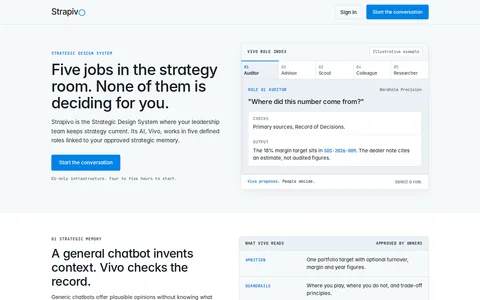
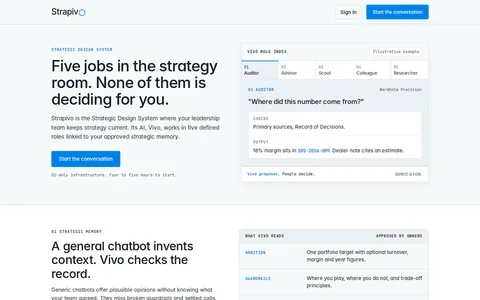
Update landing concept 59-five-roles

diff --git a/landings/59-five-roles/index.html b/landings/59-five-roles/index.html
@@ -1323,7 +1323,7 @@
 
           <div class="role-panel is-active" role="tabpanel" id="panel-auditor" aria-labelledby="tab-auditor">
             <div class="panel-meta">
-              <span class="panel-role-tag">Role 01 Auditor</span>
+              <span class="panel-role-tag">01 Auditor</span>
               <span class="panel-scope">Nordholm Precision</span>
             </div>
             <p class="panel-question">"Where did this number come from?"</p>
@@ -1334,14 +1334,14 @@
               </div>
               <div class="dossier-row">
                 <span class="dossier-label">Output</span>
-                <p class="dossier-text">The 18% margin target sits in <span class="ref-code">SDS-2026-009</span>. The dealer note cites an estimate, not audited figures.</p>
+                <p class="dossier-text">18% margin sits in <span class="ref-code">SDS-2026-009</span>. Dealer note cites an estimate.</p>
               </div>
             </div>
           </div>
 
           <div class="role-panel" role="tabpanel" id="panel-advisor" aria-labelledby="tab-advisor">
             <div class="panel-meta">
-              <span class="panel-role-tag">Role 02 Advisor</span>
+              <span class="panel-role-tag">02 Advisor</span>
               <span class="panel-scope">Nordholm Precision</span>
             </div>
             <p class="panel-question">"Does this fit our principles?"</p>
@@ -1352,14 +1352,14 @@
               </div>
               <div class="dossier-row">
                 <span class="dossier-label">Output</span>
-                <p class="dossier-text">Direct retail conflicts with <span class="ref-code">Guardrail 03</span> on distributors. Narrow the scope or reopen the guardrail.</p>
+                <p class="dossier-text">Direct retail breaks <span class="ref-code">Guardrail 03</span> on distributors. Narrow scope or reopen it.</p>
               </div>
             </div>
           </div>
 
           <div class="role-panel" role="tabpanel" id="panel-scout" aria-labelledby="tab-scout">
             <div class="panel-meta">
-              <span class="panel-role-tag">Role 03 Scout</span>
+              <span class="panel-role-tag">03 Scout</span>
               <span class="panel-scope">Nordholm Precision</span>
             </div>
             <p class="panel-question">"What moved against the plan?"</p>
@@ -1370,14 +1370,14 @@
               </div>
               <div class="dossier-row">
                 <span class="dossier-label">Output</span>
-                <p class="dossier-text">Two primary supplier filings show a 14-week delay. Vivo proposed a ghost move into the top right.</p>
+                <p class="dossier-text">Two supplier filings show a 14-week delay. Vivo proposed a top-right ghost move.</p>
               </div>
             </div>
           </div>
 
           <div class="role-panel" role="tabpanel" id="panel-colleague" aria-labelledby="tab-colleague">
             <div class="panel-meta">
-              <span class="panel-role-tag">Role 04 Colleague</span>
+              <span class="panel-role-tag">04 Colleague</span>
               <span class="panel-scope">Nordholm Precision</span>
             </div>
             <p class="panel-question">"Think this through with me."</p>
@@ -1388,14 +1388,14 @@
               </div>
               <div class="dossier-row">
                 <span class="dossier-label">Output</span>
-                <p class="dossier-text">Holding the Munich launch protects cash yet pushes two activities off track. Compare Adapt against Not yet.</p>
+                <p class="dossier-text">Delaying Munich protects cash yet pushes two activities off track. Compare Adapt against Not yet.</p>
               </div>
             </div>
           </div>
 
           <div class="role-panel" role="tabpanel" id="panel-researcher" aria-labelledby="tab-researcher">
             <div class="panel-meta">
-              <span class="panel-role-tag">Role 05 Researcher</span>
+              <span class="panel-role-tag">05 Researcher</span>
               <span class="panel-scope">Nordholm Precision</span>
             </div>
             <p class="panel-question">"What evidence sits behind this shift?"</p>
@@ -1406,7 +1406,7 @@
               </div>
               <div class="dossier-row">
                 <span class="dossier-label">Output</span>
-                <p class="dossier-text">Three primary notices confirm the 2027 German threshold. Trade press missed the exemption.</p>
+                <p class="dossier-text">Three regulatory notices confirm the 2027 threshold. Trade press missed the exemption.</p>
               </div>
             </div>
           </div>
@@ -1424,8 +1424,8 @@
         <div class="body-stack">
           <p class="eyebrow">01 Strategic memory</p>
           <h2 id="generic-heading">A general chatbot invents context. Vivo checks the record.</h2>
-          <p>Generic chatbots offer plausible opinions without knowing what your leadership team agreed. They cannot spot a broken guardrail or a settled call.</p>
-          <p>Strapivo stores your strategy as structured truth. Vivo reads four approved artefacts before it answers.</p>
+          <p>Generic chatbots offer plausible opinions without knowing what your team agreed. They miss broken guardrails and settled calls.</p>
+          <p>Strapivo stores strategy as structured truth. Vivo reads four approved artefacts first.</p>
         </div>
 
         <div class="anchor-table" role="region" aria-label="Four artefacts Vivo reads before responding">
@@ -1456,9 +1456,9 @@
     <section class="section section-paper" aria-labelledby="roles-heading">
       <div class="container">
         <div class="section-head">
-          <p class="eyebrow">02 Five roles in the room</p>
+          <p class="eyebrow">02 Five roles</p>
           <h2 id="roles-heading">Five defined jobs, linked to real artefacts</h2>
-          <p class="section-lead">Teams want help, not a co-author with the pen. Each role gives Vivo one question and clear artefacts to check.</p>
+          <p class="section-lead">Teams want help, not a co-author with the pen. Each role checks named artefacts.</p>
         </div>
 
         <div class="roles-ledger">
@@ -1477,7 +1477,7 @@
               <p class="role-artefact">Primary sources, Record of Decisions</p>
             </div>
             <p class="role-question-col">"Where did this number come from?"</p>
-            <p class="role-desc">Vivo traces claims to primary evidence, activity updates or an earlier decision. It flags unverified assumptions before you commit resources.</p>
+            <p class="role-desc">Vivo traces claims to primary evidence or past decisions. It flags weak assumptions before you commit resources.</p>
           </article>
 
           <article class="ledger-row">
@@ -1489,7 +1489,7 @@
               <p class="role-artefact">Ambition, guardrails</p>
             </div>
             <p class="role-question-col">"Does this fit our principles?"</p>
-            <p class="role-desc">Vivo tests proposals against your Ambition and where you do not play. It flags drift before an exception becomes routine.</p>
+            <p class="role-desc">Vivo tests proposals against your Ambition and stated boundaries. It catches drift before exceptions turn routine.</p>
           </article>
 
           <article class="ledger-row">
@@ -1501,7 +1501,7 @@
               <p class="role-artefact">Focus areas, risk radar</p>
             </div>
             <p class="role-question-col">"What moved against the plan?"</p>
-            <p class="role-desc">Vivo tracks outside shifts against your focus areas with a one-line reason. It proposes ghost risk moves for a person to confirm or reject.</p>
+            <p class="role-desc">Vivo tracks outside shifts against focus areas in one line. It proposes ghost risk moves for people to confirm.</p>
           </article>
 
           <article class="ledger-row">
@@ -1513,7 +1513,7 @@
               <p class="role-artefact">Objectives, activities, risks</p>
             </div>
             <p class="role-question-col">"Think this through with me."</p>
-            <p class="role-desc">Vivo prompts on scenarios, alternatives, black swans and waiting costs. Leaders test options while Vivo never rewrites the strategy.</p>
+            <p class="role-desc">Vivo prompts on scenarios, alternatives, black swans and waiting costs. Leaders test options while Vivo never rewrites strategy.</p>
           </article>
 
           <article class="ledger-row">
@@ -1525,7 +1525,7 @@
               <p class="role-artefact">Primary filings, market signals</p>
             </div>
             <p class="role-question-col">"What evidence sits behind this shift?"</p>
-            <p class="role-desc">Vivo separates primary sources from secondary commentary when news arrives. Debate starts from verified facts instead of headlines.</p>
+            <p class="role-desc">Vivo separates primary sources from secondary commentary. Debate starts from verified facts instead of headlines.</p>
           </article>
         </div>
       </div>
@@ -1534,9 +1534,9 @@
     <section class="section section-navy on-dark" aria-labelledby="lenses-heading">
       <div class="container">
         <div class="section-head">
-          <p class="eyebrow">03 Lenses and hard questions</p>
+          <p class="eyebrow">03 Lenses</p>
           <h2 id="lenses-heading">Apply a practitioner's lens to hard questions</h2>
-          <p class="section-lead">Lenses apply a specific strategy practitioner's perspective to a question, using your business model and active risks.</p>
+          <p class="section-lead">Lenses apply a specific strategy practitioner's perspective to a question, using your business model and risks.</p>
         </div>
 
         <div class="specimen-grid" role="region" aria-label="Two sample strategic prompt specimens">
@@ -1548,7 +1548,7 @@
             <div class="specimen-body">
               <h3 class="specimen-prompt">"Will my business survive AI?"</h3>
               <p class="specimen-checks">Reads Business Model Canvas, focus areas, risks</p>
-              <p class="specimen-output">Vivo tests revenue streams and key resources against live signals. It shows where waiting raises radar exposure.</p>
+              <p class="specimen-output">Vivo tests revenue streams and resources against live signals, marking where waiting raises exposure.</p>
             </div>
           </article>
 
@@ -1560,7 +1560,7 @@
             <div class="specimen-body">
               <h3 class="specimen-prompt">"Roast my business model."</h3>
               <p class="specimen-checks">Reads Ambition, guardrails, Record of Decisions</p>
-              <p class="specimen-output">Vivo challenges weak dependencies and flags activities off track. It cites decisions where you parked related risks.</p>
+              <p class="specimen-output">Vivo challenges weak dependencies, flags activities off track and cites decisions with parked risks.</p>
             </div>
           </article>
         </div>
@@ -1572,7 +1572,7 @@
         <div class="section-head">
           <p class="eyebrow">04 Dynamic Strategy</p>
           <h2 id="loop-heading">How Vivo fits the 60-minute weekly loop</h2>
-          <p class="section-lead">Dynamic Strategy runs weekly, fortnightly or monthly so your plan never sits in a drawer.</p>
+          <p class="section-lead">Run weekly, fortnightly or monthly so strategy never sits in a drawer.</p>
         </div>
 
         <figure class="loop-frame" aria-label="Five-step 60-minute weekly loop showing what Vivo proposes versus what people decide">
@@ -1611,7 +1611,7 @@
               </div>
               <div class="step-human">
                 <span class="lane-tag">People</span>
-                <p class="step-text">The session lead edits it and the room approves it.</p>
+                <p class="step-text">The lead edits it and the room approves it.</p>
               </div>
             </div>
 
@@ -1622,7 +1622,7 @@
               </div>
               <div class="step-vivo">
                 <span class="lane-tag">Vivo</span>
-                <p class="step-text">Vivo presents evidence and prompts on waiting costs.</p>
+                <p class="step-text">Vivo shows evidence and prompts on waiting costs.</p>
               </div>
               <div class="step-human">
                 <span class="lane-tag">People</span>
@@ -1641,7 +1641,7 @@
               </div>
               <div class="step-human">
                 <span class="lane-tag">People</span>
-                <p class="step-text">Pick Hold, Adapt, Pivot, Take advantage or Not yet. Pivots need an Owner.</p>
+                <p class="step-text">Choose Hold, Adapt, Pivot, Take advantage or Not yet.</p>
               </div>
             </div>
 
@@ -1652,11 +1652,11 @@
               </div>
               <div class="step-vivo">
                 <span class="lane-tag">Vivo</span>
-                <p class="step-text">Vivo reads back the entry, rationale and named dissent.</p>
+                <p class="step-text">Vivo reads back the entry and named dissent.</p>
               </div>
               <div class="step-human">
                 <span class="lane-tag">People</span>
-                <p class="step-text">The lead confirms it under a permanent number such as <span class="decision-id">SDS-2026-014</span>.</p>
+                <p class="step-text">The lead confirms it as <span class="decision-id">SDS-2026-014</span>.</p>
               </div>
             </div>
           </div>
@@ -1674,13 +1674,13 @@
         <div class="trust-grid">
           <article class="trust-card">
             <h3>EU-only and traceable</h3>
-            <p>Strapivo runs on EU-only infrastructure and is GDPR by design. Start with public material, then widen at your pace. Every recommendation traces to your approved strategic memory.</p>
+            <p>Strapivo runs on EU-only infrastructure and is GDPR by design. Start with public material, then widen at your pace. Every answer traces to your strategic memory.</p>
             <p class="trust-meta">Humans decide. Humans validate.</p>
           </article>
 
           <article class="trust-card">
             <h3>We do the reading first</h3>
-            <p>Bring a workshop report, documents or emails. You walk into session one with a draft to correct instead of a blank page, teach Vivo what matters and run one session together.</p>
+            <p>Bring a workshop report, documents or emails. You walk into session one with a draft to correct, teach Vivo what matters and run one session together.</p>
             <p class="trust-meta">Four to five hours, and then you run it.</p>
           </article>
         </div>
